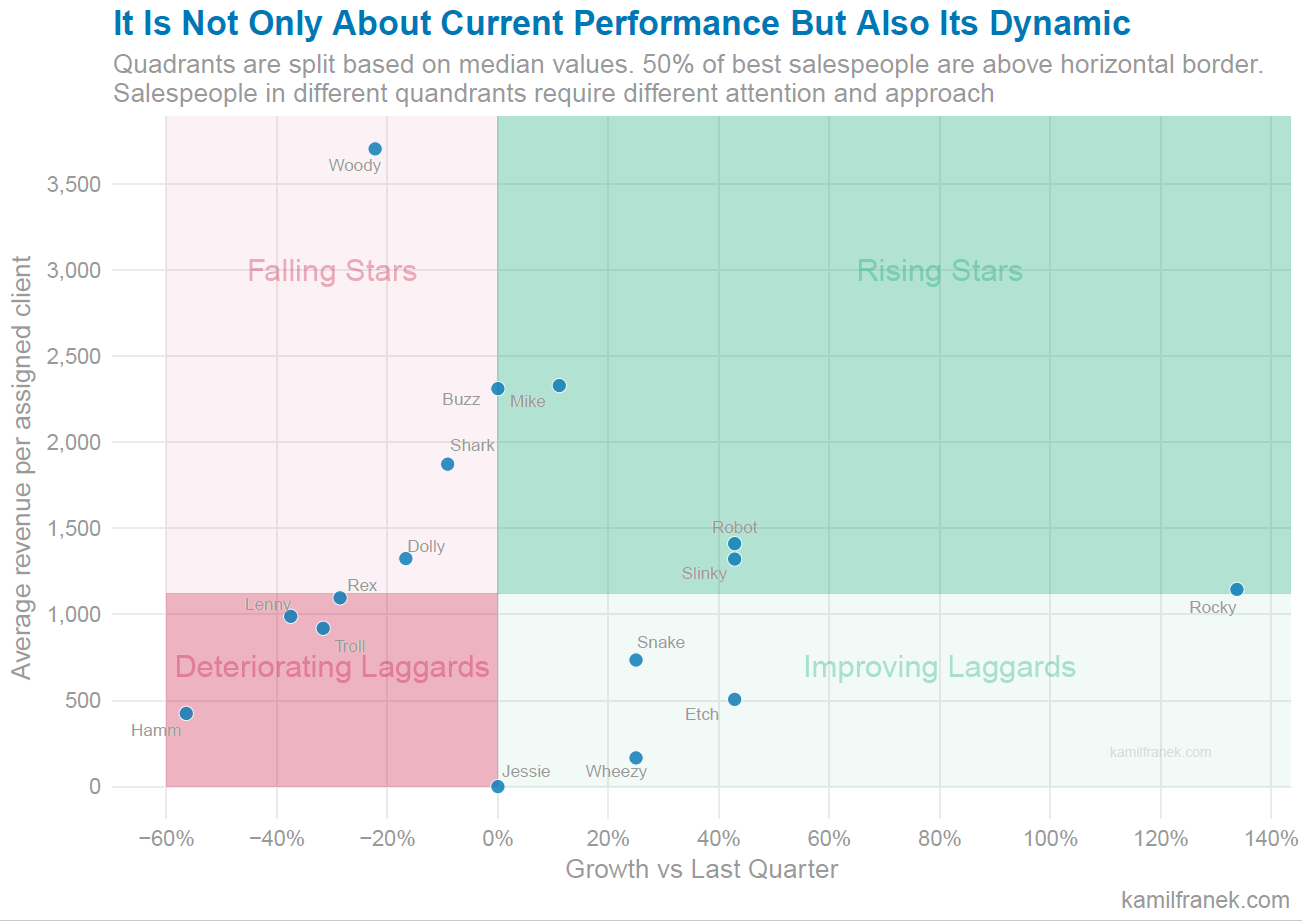
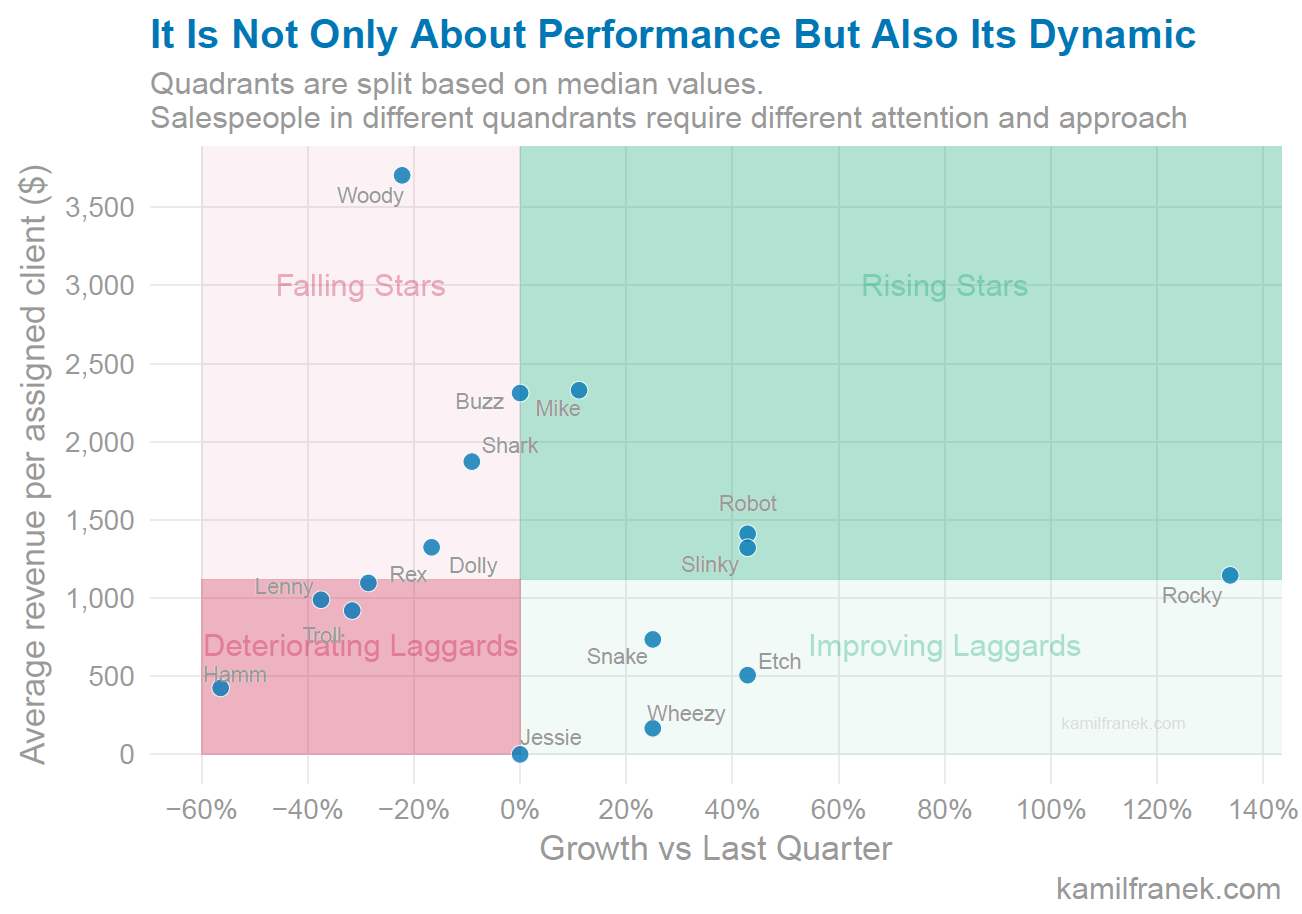
post update

diff --git a/_posts/2018-01-14-who-are-your-top-salespeople.md b/_posts/2018-01-14-who-are-your-top-salespeople.md
@@ -1,29 +1,27 @@
 ---
-title: "Where Do Your Czech Customers Live?"
+title: "Who Are Your Top Salespeople? 3 tips how to evaluate performance of your sales teams"
 type: "article"
 categories:
 tags:
-excerpt: "Population distribution within the Czech Republic."
+excerpt: "Who are your best salespeople or sales teams and who are the worst ones. Do your reward for luck or skill."
 header:
- teaser: "assets/images/map_cr_cities_density.png"
+ teaser: "assets/images/performance_vs_growth_matrix.png"
  
 ---
-If you are sales leader, sales manager or  sales analytics professionals, one question that you will need to answer is who are your best salespeople or sales teams and who are the worst ones. It is not a straightforward task to tackle and will be heavily influenced by the situation in your company. That being said, in practice, one "straightforward solution" is very often used in a form of traditional sales leaderboard.  We all love Leaderboards, don't we? I have designed few of them too :-), but are they really the right tool for ranking of your salespeople? 
+If you are a sales leader, sales manager or a sales analytics professionals, one question that you will need to answer is who are your best salespeople or sales teams and who are the worst ones. It is not a straightforward task to tackle and will be heavily influenced by the situation in your company. That being said, in practice, one "straightforward solution" is very often used in a form of traditional sales leaderboard.  We all love Leaderboards, don't we? I have designed few of them too :-), but are they really the right tool for ranking of your salespeople? 
 
 >I will try to argue that although there is nothing wrong with a leaderboard as such, it is misused in practice. The main problem is not the leaderboard itself but metric that is used in it and I will suggest three alternatives which I find more appropriate.
 
-To illustrate my tips with examples, I created data for a fictional sales team and I will use it to illustrate each approach and visualize the result. To give you more context, let's say that these guys are member of sales team i a company that produce toys.
+To illustrate my tips with examples, I created data for a fictional sales team and I will use it to illustrate each approach and visualize the result. To give you more context, let's say that these guys are members of a sales team in a company that produces toys.
 
-##What Is Wrong With Your Traditional Sales Leaderboard
+## What Is Wrong With Your Traditional Sales Leaderboard
 
 The attractiveness of leaderboards is that they are simple to create and simple to evaluate. Just take one or few core metrics you use in your sales team and rank your salespeople from the one with the biggest value to the lowest. It can be revenue, units or incremental profit or several different core metrics at once.
 
 Sounds pretty straightforward, right? So what is wrong with that? As I said at the beginning, I don't think the leaderboard itself is the issue, the problem lies in the metrics that are used in them that do not take into account at least some basic evaluation of the potential of assigned territories or assigned client portfolios. 
 
 In an example below I designed simple leaderboard with Revenue as one and only metric.
-
 ## Traditional Sales Leaderboard Example
-
 |Nickname | Revenues| Rank|
 |:--------|--------:|----:|
 |Buzz     |  1,500,000|    1|
@@ -51,38 +49,39 @@ The problem lies in the metric I used. I would like to visualize which salespeop
 
 There are situations where this traditional leaderboard might work. For example in case of very similar assigned territories/portfolios with similar potential, it might be a viable option. Another reason why you might use it is the simplicity when you do not have enough data or sales analytics capacity and you just need something for the beginning to start with. That's fine, just make sure it won't become a permanent solution.
 
-Another situation where it might be fine to use traditional leaderboard is when you've already taken potential into account territory size in your sales targets and you rank salespeople based on quota fulfillment, not absolute sales. In that case if you allocated targets centrally based on your potential to individual salespeople without too much of reallocation of targets after that, you are already doing what I will try to suggest as a tip #1.
+Another situation where it might be fine to use traditional leaderboard is when you've already taken potential into account territory size in your sales targets and you rank salespeople based on quota fulfillment, not absolute sales. In that case, if you allocated targets centrally based on your potential to individual salespeople without too much of reallocation of targets after that, you are already doing what I will try to suggest as a tip #1.
 
 ## How to fix your Leaderboards? Tip #1: Take into account territory/portfolio potential.
 
 If you want to rank salespeople really by how good they are at selling and mitigate at least to some extent how lucky they were to be allocated good portfolio or territory, you need some other tool.
 
-Good news is that we can adjust the Leaderboard to take into account potential. What you will need to do is quantify the potential of assigned territory or portfolio. It might be as easy as a number of customers, or as complex as a machine learning model that will take into account more variables of potential. My main advice here is, do not just make stuff up about what you think or "feel" is driving the sales performance but use your historical data, at least to confirm your hypothesis is valid. Metric you should use have to be the core driver and predictor of your sales team performance, otherwise you are just speculating and making stuff up.
+Good news is that we can adjust the Leaderboard to take into account potential. What you will need to do is quantify the potential of assigned territory or portfolio. It might be as easy as a number of customers, or as complex as a machine learning model that will take into account more variables of potential. My main advice here is, do not just make stuff up about what you think or "feel" is driving the sales performance but use your historical data, at least to confirm your hypothesis is valid. Metric you should use have to be the core driver and predictor of your sales team performance, otherwise, you are just speculating and making stuff up.
 
 Territory size is one potential performance driver that you should consider and I will use it in my example as the only driver. In real-life you will have to look at other drivers that might influence the results, like a number of potential customers and composition in territories because size is not the only important factor. 
 
 Drivers you might choose will be very depended on your business and product, it might be revenue, customers, purchasing power, customer turnover etc. 
 
-See the leaderboard below, that I adjusted based on number of clients in portfolio of each salesperson. It is still leaderboard but at least it is measuring the performance of your salespeople, not the size of the territories. For example Buzz, the salesperson with biggest revenues is not in lead anymore and fell to the third place because Woody and Mike were able to utilize their smaller portfolios better. Woody was the star is actually extremely far ahead of everybody else based on revenue per client metric. Another interisting different in both leaderboards is e.g. Mike who jumped significantly up because potential of his portfolio is significantly smaller than for examples that of Buzz or Rocky.In traditional leaderboard he was hidding in the middle of the field, adjusted leaderbord tell your that he is actually one of your stars an was just unlucky to be assigned smaller portfolio.
+See the leaderboard below, that I adjusted based on number of clients in portfolio of each salesperson. It is still leaderboard but at least it is measuring the performance of your salespeople, not the size of the territories. For example Buzz, the salesperson with biggest revenues is not in lead anymore and fell to the third place because Woody and Mike were able to utilize their smaller portfolios better. Woody was the star is actually extremely far ahead of everybody else based on revenue per client metric. Another interesting different in both leaderboards is e.g. Mike who jumped significantly up because the potential of his portfolio is significantly smaller than for examples that of Buzz or Rocky.In traditional leaderboard he was hiding in the middle of the field, adjusted leaderboard tell your that he is actually one of your stars an was just unlucky to be assigned smaller portfolio.
 
-|Nickname | Revenue| Revenue Rank| Assigned # of clients| Revenue per client| Revenue per client Rank|"
-|:--------|-------:|------------:|---------------------:|------------------:|-----------------------:|"
-|Woody    | 1,400,000|            2|                   378|          3704|                       1|"
-|Mike     |  750,000|            6|                   322|           2329|                       2|"
-|Buzz     | 1,500,000|            1|                   649|          2311|                       3|"
-|Shark    | 1,000,000|            3|                   534|          1873|                       4|"
-|Robot    |  800,000|            5|                   567|          1411|                       5|"
-|Dolly    |  600,000|            7|                   453|          1325|                       6|"
-|Slinky   |  600,000|            7|                   454|          1322|                       7|"
-|Rocky    |  900,000|            4|                   786|          1145|                       8|"
-|Rex      |  500,000|            9|                   456|          1096|                       9|"
-|Lenny    |  450,000|           10|                   455|           989|                      10|"
-|Troll    |  400,000|           11|                   435|           920|                      11|"
-|Snake    |  400,000|           11|                   544|           735|                      12|"
-|Etch     |  230,000|           13|                   454|           507|                      13|"
-|Hamm     |  170,000|           14|                   400|           425|                      14|"
-|Wheezy   |   50,000|           15|                   300|           167|                      15|"
-|Jessie   |       0|           16|                     0|             0|                      16|"
+## Adjusted Sales Leaderboard Example
+|Nickname | Revenue| Revenue Rank| Assigned # of clients| Revenue per client| Revenue per client Rank|
+|:--------|-------:|------------:|---------------------:|------------------:|-----------------------:|
+|Woody    | 1,400,000|            2|                   378|          3704|                       1|
+|Mike     |  750,000|            6|                   322|           2329|                       2|
+|Buzz     | 1,500,000|            1|                   649|          2311|                       3|
+|Shark    | 1,000,000|            3|                   534|          1873|                       4|
+|Robot    |  800,000|            5|                   567|          1411|                       5|
+|Dolly    |  600,000|            7|                   453|          1325|                       6|
+|Slinky   |  600,000|            7|                   454|          1322|                       7|
+|Rocky    |  900,000|            4|                   786|          1145|                       8|
+|Rex      |  500,000|            9|                   456|          1096|                       9|
+|Lenny    |  450,000|           10|                   455|           989|                      10|
+|Troll    |  400,000|           11|                   435|           920|                      11|
+|Snake    |  400,000|           11|                   544|           735|                      12|
+|Etch     |  230,000|           13|                   454|           507|                      13|
+|Hamm     |  170,000|           14|                   400|           425|                      14|
+|Wheezy   |   50,000|           15|                   300|           167|                      15|
+|Jessie   |       0|           16|                     0|             0|                      16|
 
 ## Is adjusted Leaderboard really the best we can do? Tip #2: Visualize sales performance in a more useful way.
  
@@ -96,14 +95,14 @@ The worst salesperson based on his distance from ramp-up curve is Hamm. Notice t
 
 <figure>
     <a href="/assets/images/ramp_up_curve_example.png"><img src="/assets/images/ramp_up_curve_example.png"></a>
-    <figcaption>Ramp-up Curve Example</figcaption>
+    <figcaption></figcaption>
 </figure>
 
 I assume there is no seasonality in sales results of toys just for the sake of making these examples easier to follow. In reality, if you want to use this approach you will need to use seasonal decomposition techniques to strip seasonality from each salesperson sales. Otherwise, it won't be comparable to your ramp-up curve which is seasonally adjusted already.
 
 ## Tip #3: Performance vs Growth Matrix. Taking into account period to period performance changes
 
-Another way I recommend is to look at performance compared to trend. Are you top salespeople getting better or worse? A great way how to visualize this is to compare performance adjusted for potentioal as one dimension to growth in this metric in time. You will get matrix similar to the one below You can see both which of your salespeople overperform and also if they are getting better over time (or worse). 
+Another way I recommend is to look at performance compared to trend. Are you top salespeople getting better or worse? A great way how to visualize this is to compare performance adjusted for potential as one dimension to growth in this metric in time. You will get matrix similar to the one below You can see both which of your salespeople overperform and also if they are getting better over time (or worse). 
 
 What I particularly like about this way of visualizing your sales team performance is that it helps you to identify the main areas to focus on. 
 
